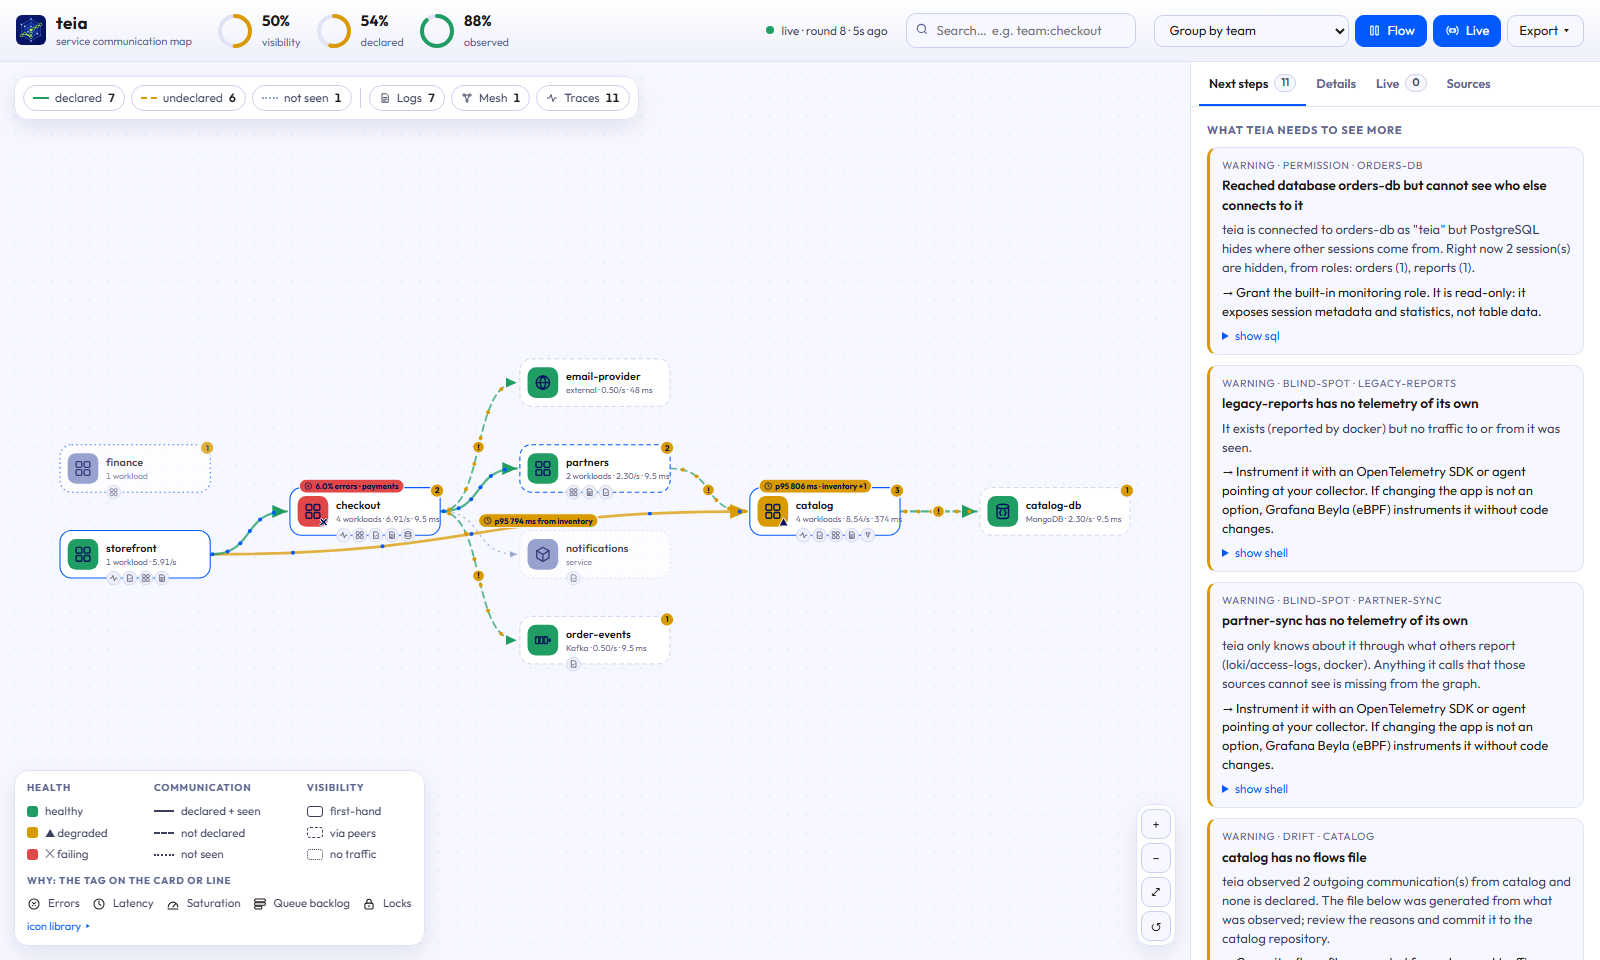
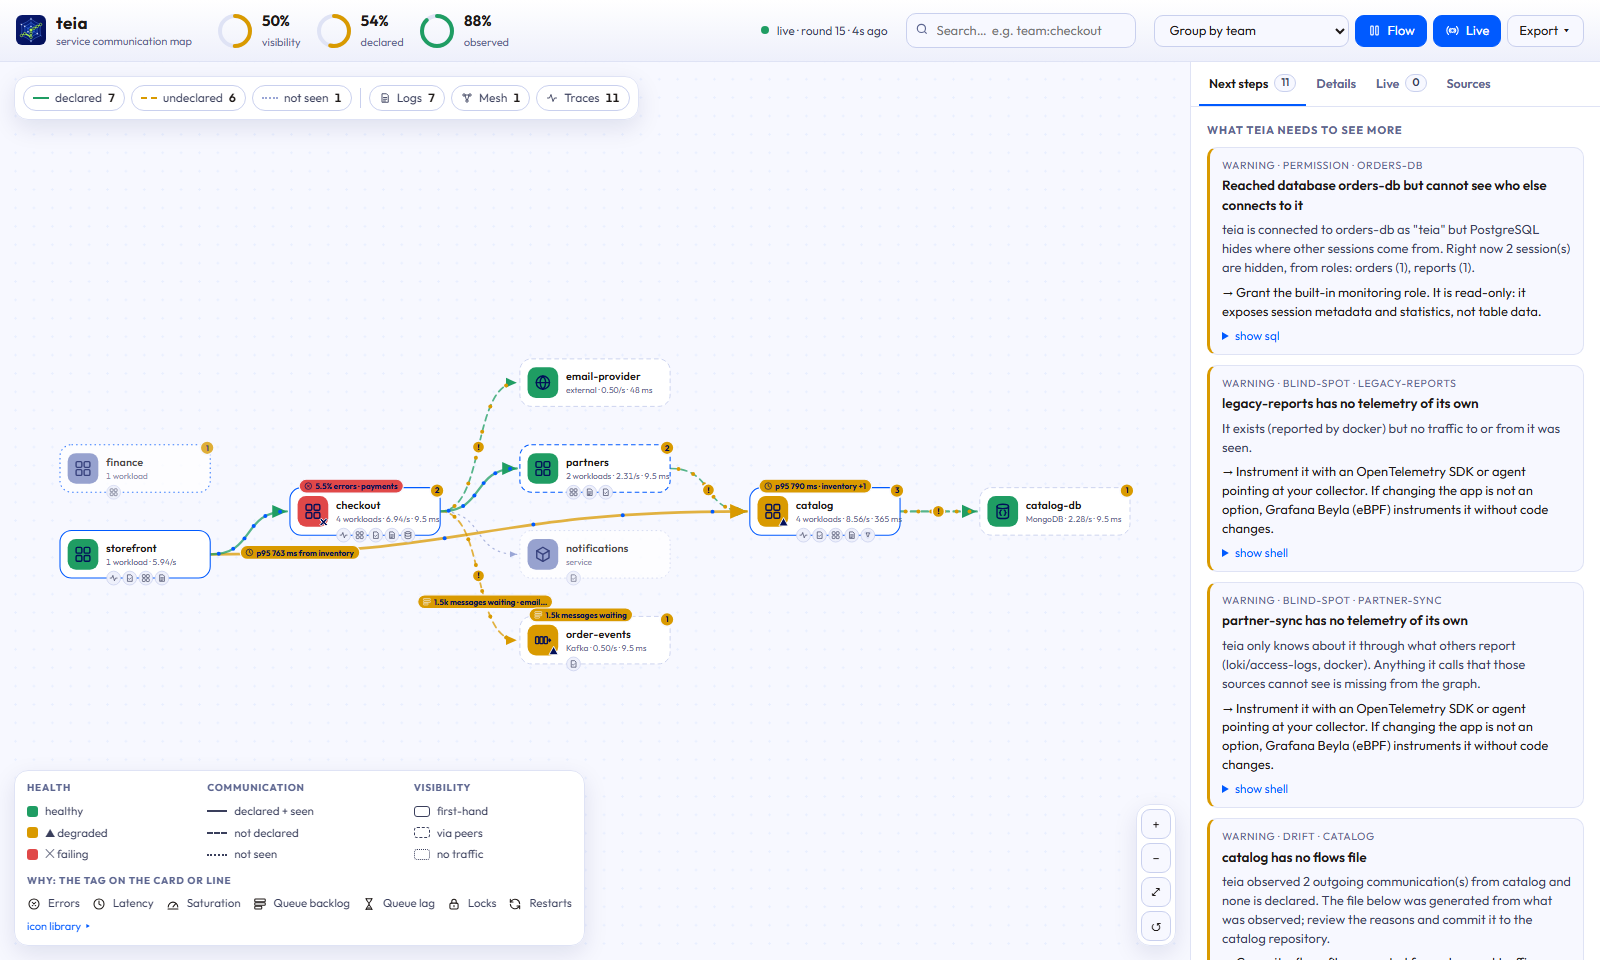
ui: tags find room on their line; line details show their readings
- Tags on lines are placed along the line where they cover no card and
  no other tag, or as little as possible, instead of all in the middle
  where crossing lines piled them up under cards.
- Lines drawn by the map now carry their measures, so selecting a
  consumer's line opens its details (it failed before); a component test
  clicks one.
- README: queue and cache screenshots, the lab's one problem of each
  kind; architecture diagram names the exporters. The screenshot script
  retries a capture once.

diff --git a/internal/api/ui/teia-ui.js b/internal/api/ui/teia-ui.js
@@ -641,6 +641,22 @@ button.label { cursor: pointer; }
     return what + via + (more > 0 ? ` +${more}` : '');
   }
 
+  // placeTag picks where a w × h tag goes: the first spot (its centre) that
+  // overlaps none of the obstacles ({x0, y0, x1, y1}); when every spot does,
+  // the one that covers the least. Spots run from the middle of a line out.
+  function placeTag(spots, w, h, obstacles) {
+    const box = p => ({ x0: p.x - w / 2, y0: p.y - h / 2, x1: p.x + w / 2, y1: p.y + h / 2 });
+    const overlap = (a, b) => Math.max(0, Math.min(a.x1, b.x1) - Math.max(a.x0, b.x0)) * Math.max(0, Math.min(a.y1, b.y1) - Math.max(a.y0, b.y0));
+    let best = null;
+    for (const p of spots) {
+      const b = box(p);
+      const covered = obstacles.reduce((sum, o) => sum + overlap(b, o), 0);
+      if (covered === 0) return { ...p, box: b };
+      if (!best || covered < best.covered) best = { ...p, box: b, covered };
+    }
+    return { x: best.x, y: best.y, box: best.box };
+  }
+
   // cardSubtitle is the second line of a card: what it is, then the golden
   // signals it has (traffic, latency, errors). When that does not fit, what
   // it is goes first: the icon and the details already say it.
@@ -670,7 +686,7 @@ button.label { cursor: pointer; }
       if (!g) { nodes.set(n.id, { ...n, title: n.id, signals: nodeSignals(n, index) }); continue; }
       let gn = nodes.get(g);
       if (!gn) {
-        gn = { id: g, group: true, kind: 'group', title: g.slice(6), labelKey: groupBy, members: [], health: 'unknown', visibility: 'none', requestRate: 0, latency: latencySum(), reasons: [], signals: [], labels: { [groupBy]: g.slice(6) } };
+        gn = { id: g, group: true, kind: 'group', title: g.slice(6), labelKey: groupBy, members: [], health: 'unknown', visibility: 'none', requestRate: 0, latency: latencySum(), reasons: [], measures: [], signals: [], labels: { [groupBy]: g.slice(6) } };
         nodes.set(g, gn);
       }
       gn.members.push(n);
@@ -688,13 +704,14 @@ button.label { cursor: pointer; }
       const id = from + '->' + to;
       let ve = edges.get(id);
       if (!ve) {
-        ve = { id, from, to, members: [], requestRate: 0, failed: 0, latency: latencySum(), reasons: [], signals: new Set(), states: new Set(), declared: false, observed: false, health: 'unknown', protocol: e.protocol, reason: e.reason, port: e.port, sources: new Set() };
+        ve = { id, from, to, members: [], requestRate: 0, failed: 0, latency: latencySum(), reasons: [], measures: [], signals: new Set(), states: new Set(), declared: false, observed: false, health: 'unknown', protocol: e.protocol, reason: e.reason, port: e.port, sources: new Set() };
         edges.set(id, ve);
       }
       ve.members.push(e);
       ve.requestRate += e.requestRate;
       ve.failed += e.requestRate * e.errorRate;
       ve.latency.add(e);
+      ve.measures.push(...e.measures);
       if (e.reasons.length) ve.reasons.push(...e.reasons.map(r => (from === e.from && to === e.to ? r : { ...r, subject: `${e.from}→${e.to}` })));
       e.signals.forEach(s => ve.signals.add(s));
       e.sources.forEach(s => ve.sources.add(s));
@@ -825,7 +842,7 @@ button.label { cursor: pointer; }
     } catch { return null; }
   }
 
-  const core = { sanitize, signature, indexSnapshot, nodeSignals, labelKeys, buildView, matcher, layered, particleBudget, safeApiBase, categoryOf, cardSubtitle, fmtMs, fmtSec, fmtBytes, reasonTag, compact, TECH, CATEGORY, SIGNAL, REASON };
+  const core = { sanitize, signature, indexSnapshot, nodeSignals, labelKeys, buildView, matcher, layered, particleBudget, safeApiBase, categoryOf, cardSubtitle, fmtMs, fmtSec, fmtBytes, reasonTag, compact, placeTag, TECH, CATEGORY, SIGNAL, REASON };
 
   // ============================================================== mount
   function mount(host, opts = {}) {
@@ -1191,18 +1208,27 @@ button.label { cursor: pointer; }
 
     // renderReasons pins each amber or red line's worst reason above its
     // middle, so the map says why without hovering.
+    // Each tag sits on its own line, at the first spot from the middle out
+    // where it covers no card and no tag placed before it.
     function renderReasons() {
       layerReasons.replaceChildren();
+      const obstacles = [...nodeEls.values()].map(n => ({
+        x0: n._pos.x - NODE_W / 2 - 6, x1: n._pos.x + NODE_W / 2 + 6,
+        y0: n._pos.y - NODE_H / 2 - 14, y1: n._pos.y + NODE_H / 2 + 12, // the card's own tag and badges
+      }));
       for (const g of edgeEls.values()) {
         const e = g._edge;
         if (g.style.display === 'none' || !e.reasons.length) continue;
-        const p = mid(g);
-        const tag = sv('g', { transform: `translate(${p.x - 40},${p.y - 16})` });
+        const tag = sv('g');
         tag._edge = e;
         layerReasons.append(tag);
         drawWhy(tag, e.reasons);
-        const w = tag.firstChild ? Number(tag.firstChild.getAttribute('width')) : 0;
-        tag.setAttribute('transform', `translate(${p.x - w / 2},${p.y - 16})`);
+        const w = Number(tag.querySelector('rect')?.getAttribute('width')) || 80;
+        const pts = samples(g);
+        const spots = [24, 20, 28, 16, 32, 12, 36, 8, 40, 5, 43].map(i => ({ x: pts[i][0], y: pts[i][1] }));
+        const at = placeTag(spots, w, 18, obstacles);
+        obstacles.push(at.box);
+        tag.setAttribute('transform', `translate(${at.x - w / 2},${at.y})`);
         tag.addEventListener('click', ev => { ev.stopPropagation(); select({ type: 'edge', id: e.id }); });
       }
     }

diff --git a/plugins/grafana/src/components/TeiaPanel.test.tsx b/plugins/grafana/src/components/TeiaPanel.test.tsx
@@ -71,6 +71,31 @@ describe('TeiaPanel', () => {
     expect(shadow(container).querySelector('#live')!.textContent).toContain('datasource down');
   });
 
+  it('opens the details of a line with its readings and why it is amber', () => {
+    const queue = [
+      toDataFrame({ refId: 'nodes', fields: [{ name: 'id', values: ['email-worker', 'order-events'] }] }),
+      toDataFrame({
+        refId: 'edges',
+        fields: [
+          { name: 'source', values: ['email-worker'] },
+          { name: 'target', values: ['order-events'] },
+          { name: 'requestRate', values: [0.5] },
+          { name: 'declared', values: [false] },
+          { name: 'measures', values: ['[{"cause":"backlog","what":"messages waiting","value":1500}]'] },
+          { name: 'reasons', values: ['[{"cause":"backlog","health":"degraded","value":1500,"limit":1000,"summary":"1.5k messages waiting, over 1.0k","what":"messages waiting"}]'] },
+        ],
+      }),
+    ];
+    const { container } = render(<TeiaPanel {...props({ data: { series: queue, state: LoadingState.Done } as never })} />);
+    const root = shadow(container);
+    expect(root.querySelector('.why-tag')?.textContent).toContain('1.5k messages waiting');
+    (root.querySelector('.edge path.hit') as SVGElement).dispatchEvent(new MouseEvent('click', { bubbles: true }));
+    const details = root.querySelector('#pane-details')!.textContent!;
+    expect(details).toContain('Why it is amber');
+    expect(details).toContain('messages waiting');
+    expect(details).toContain('1.5k');
+  });
+
   it('cleans up when the panel goes away', () => {
     const { container, unmount } = render(<TeiaPanel {...props()} />);
     const root = shadow(container);

diff --git a/README.md b/README.md
@@ -76,7 +76,9 @@ The map, in Grafana (`nilum-teia-panel`) or in teia's own UI, is the same compon
 
 | Amber or red says why, and where it comes from | Group by any label, in dark or light |
 |---|---|
-| ![recommendations is amber: its p95 of 739 ms comes from inventory, with a button to go there](docs/assets/screenshots/teia-details.png) | ![The lab grouped by team, light theme](docs/assets/screenshots/teia-groups-light.png) |
+| ![recommendations is amber: its p95 comes from inventory, with a button to go there](docs/assets/screenshots/teia-details.png) | ![The lab grouped by team, light theme](docs/assets/screenshots/teia-groups-light.png) |
+| **A queue says how much waits and how far behind** | **A cache or database says how full it is** |
+| ![email-worker to order-events is amber: 1.5k messages waiting, 75 s behind, from kafka_exporter](docs/assets/screenshots/teia-queue.png) | ![catalog-cache: memory against maxmemory and clients against maxclients, from redis_exporter](docs/assets/screenshots/teia-cache-light.png) |
 
 Views are shareable links: `?group=team`, `?q=kind:database`, `?select=orders-db`, `?theme=light`, `?flow=1`, `?legend=icons`.
 
@@ -96,7 +98,9 @@ advisor what would make the picture more complete. The result is served as JSON,
 
 You only need Docker (Linux, macOS or Windows). The lab is a small shop with the mix real platforms have: part
 OpenTelemetry, part Istio mesh without OpenTelemetry, a managed Kafka and MongoDB seen only through client spans, a
-third-party gateway, Redis, PostgreSQL, and jobs nobody instrumented.
+third-party gateway, Redis, PostgreSQL, and jobs nobody instrumented. It also has one problem of each kind, so the
+map has something to explain: payments fails some calls, inventory answers slowly, a consumer is behind, and the
+end-to-end check takes a lock on a table.
 
 ```sh
 docker compose -f lab/compose.yaml up -d --build

diff --git a/README.pt-BR.md b/README.pt-BR.md
@@ -60,7 +60,9 @@ O mapa, no Grafana (`nilum-teia-panel`) ou na interface da própria teia, é o m
 
 | Amarelo ou vermelho diz o porquê, e de onde vem | Agrupe por qualquer label, no tema escuro ou claro |
 |---|---|
-| ![recommendations está amarelo: o p95 de 739 ms vem do inventory, com um botão para ir até lá](docs/assets/screenshots/teia-details.png) | ![O lab agrupado por time, tema claro](docs/assets/screenshots/teia-groups-light.png) |
+| ![recommendations está amarelo: o p95 vem do inventory, com um botão para ir até lá](docs/assets/screenshots/teia-details.png) | ![O lab agrupado por time, tema claro](docs/assets/screenshots/teia-groups-light.png) |
+| **A fila diz quanto espera e quão atrasada está** | **O cache ou o banco diz o quanto está cheio** |
+| ![email-worker para order-events está amarelo: 1,5 mil mensagens esperando, 75 s de atraso, do kafka_exporter](docs/assets/screenshots/teia-queue.png) | ![catalog-cache: memória contra o maxmemory e clientes contra o maxclients, do redis_exporter](docs/assets/screenshots/teia-cache-light.png) |
 
 As visões viram links compartilháveis: `?group=team`, `?q=kind:database`, `?select=orders-db`, `?theme=light`, `?flow=1`, `?legend=icons`.
 
@@ -78,7 +80,10 @@ advisor o que deixaria o quadro mais completo. O resultado sai como JSON, stream
 
 ## Testar em 5 minutos
 
-Só precisa de Docker (Linux, macOS ou Windows):
+Só precisa de Docker (Linux, macOS ou Windows). O lab é uma pequena loja com a mistura que as plataformas reais têm
+(parte OpenTelemetry, parte mesh Istio, Kafka e MongoDB gerenciados, Redis, PostgreSQL e jobs sem instrumentação) e
+um problema de cada tipo para o mapa explicar: o payments falha chamadas, o inventory responde devagar, um
+consumidor está atrasado e o teste ponta a ponta trava uma tabela.
 
 ```sh
 docker compose -f lab/compose.yaml up -d --build
